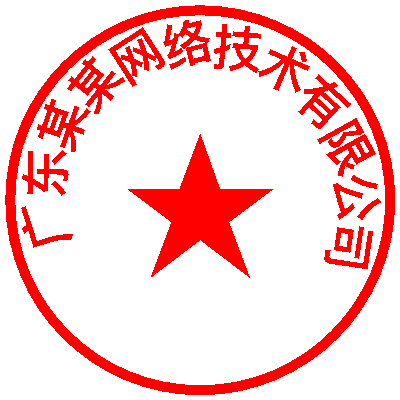
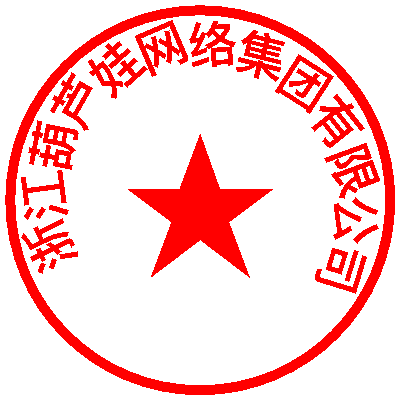
add scope compile for dependencies

Changed region(s): [[0.03, 0.03, 0.96, 0.75]]

diff --git a/qtools-pic/src/test/java/com/liumapp/qtools/pic/SealToolTest.java b/qtools-pic/src/test/java/com/liumapp/qtools/pic/SealToolTest.java
@@ -19,7 +19,7 @@ public class SealToolTest extends TestCase {
     private String savePath = "/usr/local/tomcat/project/qtools/data/";
 
     public void testGenerateCompanySearl () throws IOException {
-        SealTool.generateSealFile("广东某某网络技术有限公司", savePath + "test.png");
+        SealTool.generateSealFile("浙江葫芦娃网络集团有限公司", savePath + "test.png");
         Assert.assertEquals(true, FileTool.isFileExists(savePath + "test.png"));
 
         try {
